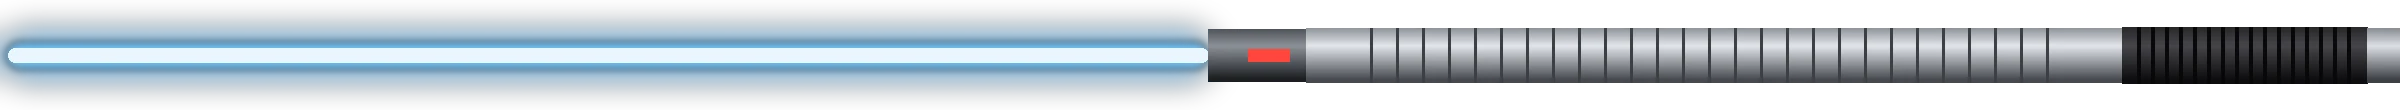
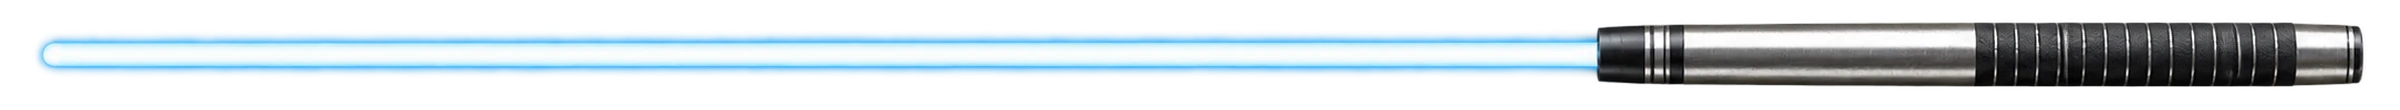
From GPT's PR #8: the light-blade cue (시크릿, its own strike) and the bowling ball (희귀); the potato told apart by plan A
Light blade and bowling ball with GPT's pictures and sound, at the owner's rarities (the blade's stat to the secret total). The potato (시크릿): on a carom table a peeled, a golden and a red potato (caromSkins: their own surfaces, colours until GPT's pictures come); on a pool table solids dyed, stripes in two rubber bands of their colour (stripes: 'bands'), numbers on big white stickers (sticker). The blade ends round in 3D and its glow has room in the power gauge, so neither is cut square.

Claude-Session: https://claude.ai/code/session_01DzxiQebW6t4iT9hZUZYbBt

diff --git a/web/scene/30-balls.js b/web/scene/30-balls.js
@@ -30,7 +30,7 @@
       if (stripe) { g.fillStyle = colOf(n); g.fillRect(0, H * 0.25, W, H * 0.5); }
       if (sk.noir && !stripe) { g.fillStyle = colOf(n); g.fillRect(0, H * 0.44, W, H * 0.12); }   // (a thin coloured belt round a solid)
       const rad = 0.5 / Math.PI * H;
-      for (const u of [0.25, 0.75]) {
+      for (const u of sk.numbers === false ? [] : [0.25, 0.75]) {
         g.fillStyle = sk.noir ? '#141416' : ivory; g.beginPath(); g.arc(u * W, H / 2, rad, 0, 7); g.fill();
         if (sk.noir) { g.strokeStyle = colOf(n); g.lineWidth = 6; g.stroke(); }
         g.fillStyle = sk.noir ? colOf(n) : '#111'; g.font = `bold ${n > 9 ? 84 : 104}px "Helvetica Neue",Arial,sans-serif`; g.textAlign = 'center'; g.textBaseline = 'middle';
@@ -50,22 +50,38 @@
        'label': the surface stays as it is, and the ball wears its colour as discs: a pool ball a disc of its colour with
                 the number on ivory (a stripe a ring of it), a carom ball two discs of its colour (the white none). */
   function skinTexture(g, W, H, sk, kind, n, hex, colOf) {
-    const im = typeof sk.skin === 'string' ? matOf(sk.skin) : null;
-    if (im) g.drawImage(im, 0, 0, W, H); else { g.fillStyle = typeof sk.skin === 'number' ? hex(sk.skin) : '#9a7048'; g.fillRect(0, 0, W, H); }
+    // caromSkins: the three carom balls each a surface of their own ({ pic, color }: a picture, the colour until it has come)
+    // - a peeled potato, a golden one, a red one - so they tell themselves apart with nothing laid on them
+    const own = kind === 'carom' && sk.caromSkins ? sk.caromSkins[Math.min(2, n)] : null;
+    const surf = own ? own.pic : sk.skin, im = typeof surf === 'string' ? matOf(surf) : null;
+    if (im) g.drawImage(im, 0, 0, W, H);
+    else { g.fillStyle = own ? hex(own.color) : typeof sk.skin === 'number' ? hex(sk.skin) : '#9a7048'; g.fillRect(0, 0, W, H); }
+    if (own) return;
     const col = kind === 'carom' ? (n === 0 ? null : n === 1 ? hex(sk.yel) : hex(sk.red)) : n === 0 ? null : colOf(n), stripe = kind === 'pool' && n > 8;
     const disc = (u, r, fill, ring) => { g.fillStyle = fill; g.beginPath(); g.arc(u * W, H / 2, r, 0, 7); g.fill(); if (ring) { g.lineWidth = r * 0.34; g.strokeStyle = ring; g.stroke(); } };
-    const number = u => { const r = 0.42 / Math.PI * H; disc(u, r, '#f4efe2'); g.fillStyle = '#111'; g.font = `bold ${n > 9 ? 74 : 92}px "Helvetica Neue",Arial,sans-serif`; g.textAlign = 'center'; g.textBaseline = 'middle'; g.fillText(String(n), u * W, H / 2 + 5); if (n === 6 || n === 9) g.fillRect(u * W - 19, H / 2 + 40, 38, 6); };
+    // the number on its sticker (sticker: how big, 1 the usual)
+    const number = u => { const k = sk.sticker || 1, r = 0.42 / Math.PI * H * k; disc(u, r, '#f7f3ea'); g.lineWidth = 3 * k; g.strokeStyle = 'rgba(0,0,0,.18)'; g.stroke();
+      g.fillStyle = '#111'; g.font = `bold ${Math.round((n > 9 ? 74 : 92) * k)}px "Helvetica Neue",Arial,sans-serif`; g.textAlign = 'center'; g.textBaseline = 'middle'; g.fillText(String(n), u * W, H / 2 + 5 * k);
+      if (n === 6 || n === 9) g.fillRect(u * W - 19 * k, H / 2 + 40 * k, 38 * k, 6 * k); };
+    const tint = (y0, h) => {
+      // the surface's light and dark kept, its colour the ball's (then a little of the colour laid over, so a dark ball is dark)
+      g.globalCompositeOperation = 'color'; g.fillStyle = col; g.fillRect(0, y0, W, h);
+      g.globalCompositeOperation = 'multiply'; g.globalAlpha = 0.55; g.fillRect(0, y0, W, h); g.globalAlpha = 1; g.globalCompositeOperation = 'source-over';
+    };
     if ((sk.mark || 'tint') === 'tint') {
       if (col) {
-        // the surface's light and dark kept, its colour the ball's (then a little of the colour laid over, so a dark ball is dark)
-        const y0 = stripe ? H * 0.25 : 0, h = stripe ? H * 0.5 : H;
-        g.globalCompositeOperation = 'color'; g.fillStyle = col; g.fillRect(0, y0, W, h);
-        g.globalCompositeOperation = 'multiply'; g.globalAlpha = 0.55; g.fillRect(0, y0, W, h); g.globalAlpha = 1; g.globalCompositeOperation = 'source-over';
+        // stripes: 'bands' - the surface as it is, two rubber bands of the colour round it; else a broad band dyed
+        if (stripe && sk.stripes === 'bands') for (const y of [0.37, 0.63]) {
+          const y0 = H * y - H * 0.04, gr = g.createLinearGradient(0, y0, 0, y0 + H * 0.08);
+          g.fillStyle = col; g.fillRect(0, y0, W, H * 0.08);
+          gr.addColorStop(0, 'rgba(0,0,0,.35)'); gr.addColorStop(0.35, 'rgba(255,255,255,.25)'); gr.addColorStop(1, 'rgba(0,0,0,.4)'); g.fillStyle = gr; g.fillRect(0, y0, W, H * 0.08);
+        }
+        else tint(stripe ? H * 0.25 : 0, stripe ? H * 0.5 : H);
       }
-      if (kind === 'pool' && n > 0) for (const u of [0.25, 0.75]) number(u);
+      if (kind === 'pool' && n > 0 && sk.numbers !== false) for (const u of [0.25, 0.75]) number(u);
     } else if (col) {
       if (kind === 'carom') for (const u of [0.25, 0.75]) disc(u, 0.3 / Math.PI * H, col);
-      else for (const u of [0.25, 0.75]) { disc(u, 0.62 / Math.PI * H, stripe ? '#f4efe2' : col, stripe ? col : null); number(u); }
+      else for (const u of [0.25, 0.75]) { disc(u, 0.62 / Math.PI * H, stripe ? '#f4efe2' : col, stripe ? col : null); if (sk.numbers !== false) number(u); }
     }
   }
   // finger holes (holes): dark inside, deepest at the middle, so the hollow the shape has (geomOf) reads as deep
@@ -152,9 +168,11 @@
   }
   function dressBall(m, k) { m.geometry = geomOf(k); finishOf(k, m.material); }
   const mats = {};
+  // every picture a set's balls are painted from (once all have come, the shelf's photographs are kept)
+  const picsOf = k => [k.mat, typeof k.skin === 'string' ? k.skin : null, ...(k.caromSkins || []).map(c => c.pic)].filter(Boolean);
   function matOf(m) {
     if (m in mats) return mats[m]; mats[m] = null; const u = TEXS['ball-' + m]; if (!u) return null;
-    const im = new Image(); im.onload = () => { mats[m] = im; if (skin && (skin.mat === m || skin.skin === m)) { const k = skin.id; skin = null; setBalls(k); } }; im.src = u; return null;
+    const im = new Image(); im.onload = () => { mats[m] = im; if (skin && picsOf(skin).includes(m)) { const k = skin.id; skin = null; setBalls(k); } }; im.src = u; return null;
   }
   /* A photograph of one ball of a set, for the shelf cards: the ball drawn by this renderer into a small target, lit by
      the same room (so it looks as it will on the table), its number turned to the camera; kept once made. */
@@ -171,7 +189,7 @@
       shotScene.add(shotBall); shotCam = new THREE.PerspectiveCamera(17, 1, 0.5, 20); shotCam.position.set(0, 0, 7); shotCam.lookAt(0, 0, 0);
     }
     const keep = skin; skin = k; const t = ballTexture(kind, n); skin = keep;
-    const done = (!k.mat || !!mats[k.mat]) && (typeof k.skin !== 'string' || !!mats[k.skin]);
+    const done = picsOf(k).every(m => !TEXS['ball-' + m] || !!mats[m]);
     dressBall(shotBall, k); shotBall.material.map = t; shotBall.material.color.setScalar(0.72); shotBall.material.needsUpdate = true;   // (no tone mapping off screen: a shade darker to match the table) shotBall.rotation.set(0.25, -0.18, 0);
     const prev = renderer.getRenderTarget(), cc = renderer.getClearColor(new THREE.Color()), ca = renderer.getClearAlpha();
     renderer.setRenderTarget(shotRT); renderer.setClearColor(0x000000, 0); unmask(); renderer.clear(); renderer.render(shotScene, shotCam);

diff --git a/web/content/20-cues.js b/web/content/20-cues.js
@@ -16,11 +16,39 @@ const CUES = [
     spec: [['무게', '18oz · 510g'], ['팁', '13mm 단일 가죽'], ['몸통', '통짜 메이플 원피스'], ['쓰임', '당구장 벽걸이 큐'], ['조인트', '없음']] },
   { id: 'sport', name: '스포츠 그립', rarity: 1, note: '흰 상대, 남색 하대에 노란 고무 그립', shaft: 0xf2f2ee, ferrule: 0xf2f2ee, tip: 0x2037c9, joint: 0xff5a3c, fore: 0x1a1f4d, points: null, wrap: 0xffd21f, sleeve: 0x1a1f4d, stat: { power: 6, spin: -4, guide: 2 },
     spec: [['무게', '19oz · 539g'], ['팁', '12.5mm 레이어드 가죽'], ['상대', '화이트 코팅 메이플'], ['하대', '네이비'], ['그립', '노란 고무']] },
-  // of its own make (profile, glow: top of this file): a metal hilt and a lit blade
-  { id: 'saber', name: '광선검', rarity: 5, note: '금속 손잡이에 푸르게 빛나는 날', stat: { power: 8, spin: 6, guide: 6 },
-    profile: [[0, 0.74, 0.006, 0.0062, 0xffffff], [0.74, 0.8, 0.0125, 0.0125, 0x2b2d31, { metal: 0.9, rough: 0.3 }], [0.8, 1.3, 0.0128, 0.0132, 0x9aa0a8, { metal: 1, rough: 0.25 }],
-      [1.3, 1.45, 0.0134, 0.0136, 0x1b1c1f, { rough: 0.8 }], [1.45, 1.47, 0.0136, 0.013, 0x9aa0a8, { metal: 1, rough: 0.2 }]],
-    glow: { from: 0.004, to: 0.74, color: 0x31a8ff, core: 0xeaf6ff, r: 0.0055 },
-    spec: [['무게', '19oz · 539g'], ['날', '빛나는 상대'], ['손잡이', '금속 원통, 고무 그립'], ['조인트', '없음']] },
+  // of its own make (profile, glow: top of this file): a metal hilt and a lit blade, its own strike (GPT, PR #8)
+  { id: 'saber', name: '광선검', rarity: 5, note: '은빛 손잡이와 푸른 광선, 짧은 전자 타격음', stat: { power: 8, spin: 6, guide: 6 },
+    profile: [
+      [0, 1, 0.0057, 0.006, 0xeaf8ff, { rough: 0.2 }],
+      [1, 1.025, 0.018, 0.018, 0x292e35, { rough: 0.3, metal: 0.9 }],
+      [1.025, 1.032, 0.0188, 0.0188, 0xb9c1ca, { rough: 0.22, metal: 1 }],
+      [1.032, 1.048, 0.018, 0.018, 0x252a30, { rough: 0.35, metal: 0.85 }],
+      [1.048, 1.055, 0.0188, 0.0188, 0xb9c1ca, { rough: 0.22, metal: 1 }],
+      [1.055, 1.235, 0.018, 0.018, 0xaab2bc, { rough: 0.3, metal: 1 }],
+      [1.235, 1.245, 0.0184, 0.0184, 0x30343a, { rough: 0.3, metal: 0.8 }],
+      [1.245, 1.26, 0.0173, 0.0173, 0x202328, { rough: 0.82, metal: 0 }],
+      [1.26, 1.263, 0.018, 0.018, 0x717983, { rough: 0.36, metal: 0.9 }],
+      [1.263, 1.278, 0.0173, 0.0173, 0x202328, { rough: 0.82, metal: 0 }],
+      [1.278, 1.281, 0.018, 0.018, 0x717983, { rough: 0.36, metal: 0.9 }],
+      [1.281, 1.296, 0.0173, 0.0173, 0x202328, { rough: 0.82, metal: 0 }],
+      [1.296, 1.299, 0.018, 0.018, 0x717983, { rough: 0.36, metal: 0.9 }],
+      [1.299, 1.314, 0.0173, 0.0173, 0x202328, { rough: 0.82, metal: 0 }],
+      [1.314, 1.317, 0.018, 0.018, 0x717983, { rough: 0.36, metal: 0.9 }],
+      [1.317, 1.332, 0.0173, 0.0173, 0x202328, { rough: 0.82, metal: 0 }],
+      [1.332, 1.335, 0.018, 0.018, 0x717983, { rough: 0.36, metal: 0.9 }],
+      [1.335, 1.35, 0.0173, 0.0173, 0x202328, { rough: 0.82, metal: 0 }],
+      [1.35, 1.353, 0.018, 0.018, 0x717983, { rough: 0.36, metal: 0.9 }],
+      [1.353, 1.368, 0.0173, 0.0173, 0x202328, { rough: 0.82, metal: 0 }],
+      [1.368, 1.371, 0.018, 0.018, 0x717983, { rough: 0.36, metal: 0.9 }],
+      [1.371, 1.386, 0.0173, 0.0173, 0x202328, { rough: 0.82, metal: 0 }],
+      [1.386, 1.389, 0.018, 0.018, 0x717983, { rough: 0.36, metal: 0.9 }],
+      [1.389, 1.404, 0.0173, 0.0173, 0x202328, { rough: 0.82, metal: 0 }],
+      [1.404, 1.407, 0.018, 0.018, 0x717983, { rough: 0.36, metal: 0.9 }],
+      [1.407, 1.422, 0.0173, 0.0173, 0x202328, { rough: 0.82, metal: 0 }],
+      [1.422, 1.425, 0.018, 0.018, 0x717983, { rough: 0.36, metal: 0.9 }],
+      [1.425, 1.44, 0.0175, 0.0175, 0x25282d, { rough: 0.8 }],
+      [1.44, 1.47, 0.019, 0.0184, 0xb1bac3, { rough: 0.26, metal: 1 }]
+    ], glow: { from: 0.004, to: 1, color: 0x38bfff, core: 0xf2fcff, r: 0.006 }, sound: { file: 'saber-strike' },
+    spec: [['길이', '147cm'], ['날', '푸른 광선 · 밝은 중심부'], ['손잡이', '브러시드 실버 · 건메탈'], ['그립', '차콜 링 그립'], ['타격음', '짧은 전자 스윕']] },
 ];
 if (typeof module !== 'undefined') module.exports = { CUES };

diff --git a/web/content/30-balls.js b/web/content/30-balls.js
@@ -15,9 +15,16 @@ const BALLSKINS = [
   { id: 'classic', name: '클래식', rarity: 0, note: '중계에서 보는 공: 흰 공과 노란 공에 빨간 점', pal: null, cue: 0xf4efe2, yel: 0xf4c20d, red: 0xd3241c, dots: true },
   { id: 'plain', name: '매끈한 공', rarity: 0, note: '점 없는 흰 공, 맑은 색', pal: null, cue: 0xf7f3ea, yel: 0xf6c514, red: 0xd8261e, dots: false },
   // made otherwise (shape, holes, skin, mark, finish: top of this file): a bowling ball with its finger holes, and a lumpy potato
-  { id: 'bowling', name: '볼링공', rarity: 1, note: '마블 무늬에 손가락 구멍 셋', pal: null, cue: 0xf4efe2, yel: 0xf2c21a, red: 0xd3241c, dots: false,
-    mat: 'marble', holes: [[52, 80, 0.15, 0.3], [52, 100, 0.15, 0.3], [30, 90, 0.17, 0.32]], finish: { rough: 0.15, coat: 1 } },
-  { id: 'potato', name: '알감자', rarity: 5, note: '울퉁불퉁 갓 캔 알감자', pal: null, cue: 0xe9dcc0, yel: 0xf2c21a, red: 0xd3241c, dots: false,
-    skin: 0x9a6b3c, mark: 'label', shape: { lumps: 0.09, squash: [1, 0.86, 0.94], n: 14, eyes: 7, seed: 5 }, finish: { rough: 0.85, coat: 0 } },
+  { id: 'bowling', name: '볼링공', rarity: 1, note: '마블 수지와 손가락 구멍 셋, 색과 띠로 공 구분', pal: null,
+    cue: 0xf4f1e8, yel: 0xf2c21a, red: 0xdb2827, dots: false, skin: 'bowling', mark: 'tint', numbers: false,
+    holes: [[48, 68, 0.135, 0.34], [48, 112, 0.135, 0.34], [24, 90, 0.165, 0.38]], finish: { rough: 0.18, coat: 1 },
+    sound: { rate: 0.76, tone: 0.82, gain: 1.05 } },
+  // the potato tells its balls apart as potatoes do: on a carom table a peeled one, a golden one and a red one; on a pool
+  // table a solid is dyed its colour, a stripe wears two rubber bands of it, and every number is on a big white sticker
+  { id: 'potato', name: '알감자', rarity: 5, note: '울퉁불퉁 알감자: 깐 감자·황금 감자·홍감자, 물들이고 고무줄 감고', pal: null,
+    cue: 0xf0e8d5, yel: 0xf4ca1c, red: 0xe42f27, dots: false, skin: 'potato', mark: 'tint', stripes: 'bands', sticker: 1.3,
+    caromSkins: [{ pic: 'potato-white', color: 0xeee2c4 }, { pic: 'potato-gold', color: 0xe5b52a }, { pic: 'potato-red', color: 0xa33a2c }],
+    shape: { lumps: 0.105, squash: [1, 0.9, 0.96], n: 13, eyes: 8, seed: 37 }, finish: { rough: 0.92, coat: 0 },
+    sound: { rate: 0.9, tone: 0.65, gain: 0.72 } },
 ];
 if (typeof module !== 'undefined') module.exports = { BALL_HEX, ballHex, ballCss, BALLSKINS };

diff --git a/web/app/00-state.js b/web/app/00-state.js
@@ -117,7 +117,8 @@ function drawCue(cv, d, vertical) {
   cv.width = Math.round(cw * dpr); cv.height = Math.round(ch * dpr);
   const g = cv.getContext('2d'), L = vertical ? cv.height : cv.width, T = vertical ? cv.width : cv.height;
   if (vertical) g.setTransform(0, 1, 1, 0, 0, 0);                                    // swap the axes: x runs down the cue
-  const LEN = 1.47, x = m => m / LEN * L, rad = m => (0.006 + (0.0146 - 0.006) * Math.min(1, m / 1.45)) / 0.0146 * T / 2;
+  // (a lit blade's glow needs room past its tip, or the picture's edge cuts it square)
+  const LEN = 1.47, pad = d.glow ? T * 0.9 : 0, x = m => pad + m / LEN * (L - pad), rad = m => (0.006 + (0.0146 - 0.006) * Math.min(1, m / 1.45)) / 0.0146 * T / 2;
   const css = n => '#' + n.toString(16).padStart(6, '0');
   const seg = (m0, m1, fill) => { g.fillStyle = fill; g.beginPath(); g.moveTo(x(m0), T / 2 - rad(m0)); g.lineTo(x(m1), T / 2 - rad(m1)); g.lineTo(x(m1), T / 2 + rad(m1)); g.lineTo(x(m0), T / 2 + rad(m0)); g.fill(); };
   // (a cue with its own make: its sections, and a lit blade - a white core in a glow of its colour - over them)
@@ -126,8 +127,9 @@ function drawCue(cv, d, vertical) {
     for (const [x0, x1, r0, r1, h] of d.profile) { g.fillStyle = css(h); g.beginPath(); g.moveTo(x(x0), T / 2 - rr(r0)); g.lineTo(x(x1), T / 2 - rr(r1)); g.lineTo(x(x1), T / 2 + rr(r1)); g.lineTo(x(x0), T / 2 + rr(r0)); g.fill(); }
     if (d.glow) {
       const G = d.glow, r = rr(G.r || 0.0062);
-      g.save(); g.shadowColor = css(G.color); g.shadowBlur = r * 5; g.fillStyle = css(G.color); g.fillRect(x(G.from), T / 2 - r * 1.6, x(G.to) - x(G.from), r * 3.2);
-      g.shadowBlur = r * 2; g.fillStyle = css(G.core != null ? G.core : 0xffffff); g.fillRect(x(G.from), T / 2 - r, x(G.to) - x(G.from), r * 2); g.restore();
+      // round-ended bars: the coloured glow, then the white-hot core
+      const bar = (h, fill, blur) => { g.shadowBlur = blur; g.fillStyle = fill; g.beginPath(); g.moveTo(x(G.to), T / 2 - h); g.lineTo(x(G.from), T / 2 - h); g.arc(x(G.from), T / 2, h, -Math.PI / 2, Math.PI / 2, true); g.lineTo(x(G.to), T / 2 + h); g.fill(); };
+      g.save(); g.shadowColor = css(G.color); bar(r * 1.6, css(G.color), r * 5); bar(r, css(G.core != null ? G.core : 0xffffff), r * 2); g.restore();
       return;
     }
   } else {

diff --git a/web/tools/check.js b/web/tools/check.js
@@ -65,11 +65,16 @@ for (const dir of ['ai', 'app', 'reel', 'scene']) {
   // a ball set's own make (content/30-balls.js): its shape, holes, surface picture, mark and finish
   for (const k of C.BALLSKINS || []) {
     const at = `content BALLSKINS '${k.id}'`;
+    if (k.numbers != null && typeof k.numbers !== 'boolean') fail(`${at}: numbers must be true or false`);
     if (k.shape && (!num(k.shape.lumps || 0, 0, 0.15) || (k.shape.squash && !(k.shape.squash.length === 3 && k.shape.squash.every(v => num(v, 0.7, 1)))))) fail(`${at}: shape.lumps 0..0.15, shape.squash three numbers 0.7..1`);
     for (const h of k.holes || []) if (!Array.isArray(h) || !num(h[0], -90, 90) || !num(h[1], 0, 360) || !num(h[2], 0.03, 0.4) || !num(h[3] == null ? 0.3 : h[3], 0.05, 0.6)) fail(`${at}: a hole is [latitude, longitude (degrees), radius, depth (of the ball's radius)]`);
     if (typeof k.skin === 'string' && !has(`tex/ball-${k.skin}.webp`)) fail(`${at}: its surface tex/ball-${k.skin}.webp is missing`);
     if (k.skin != null && typeof k.skin !== 'string' && !num(k.skin, 0, 0xffffff)) fail(`${at}: skin is a picture's name or a colour`);
     if (k.mark && !['tint', 'label'].includes(k.mark)) fail(`${at}: mark is 'tint' or 'label'`);
+    if (k.stripes && k.stripes !== 'bands') fail(`${at}: stripes is 'bands' or left out`);
+    if (k.sticker != null && !num(k.sticker, 0.5, 1.6)) fail(`${at}: sticker 0.5..1.6`);
+    // (the three carom surfaces: each a colour, and a picture used once it is in tex/)
+    if (k.caromSkins && !(k.caromSkins.length === 3 && k.caromSkins.every(c => c && num(c.color, 0, 0xffffff) && (c.pic == null || typeof c.pic === 'string')))) fail(`${at}: caromSkins is three { pic?, color }`);
     const f = k.finish; if (f && ((f.rough != null && !num(f.rough, 0, 1)) || (f.coat != null && !num(f.coat, 0, 1)) || (f.metal != null && !num(f.metal, 0, 1)))) fail(`${at}: finish rough, coat, metal are 0..1`);
     if (f && f.bump && !has(`tex/ball-${f.bump}.webp`)) fail(`${at}: its bump picture tex/ball-${f.bump}.webp is missing`);
   }

diff --git a/web/scene/40-cue.js b/web/scene/40-cue.js
@@ -16,10 +16,12 @@
       for (const [x0, x1, r0, r1, h, o] of d.profile) { const q = o || {}; part(x0, x1, r0, r1, std(h, q.rough != null ? q.rough : 0.4, q.metal || 0)); }
       if (d.glow) {
         const G = d.glow, core = new THREE.MeshBasicMaterial({ color: col(G.core != null ? G.core : 0xffffff), toneMapped: false });
-        part(G.from, G.to, G.r || 0.0062, G.r || 0.0062, core);
+        // (each layer ends round at the tip, not cut square: a cap of its own radius)
+        const r = G.r || 0.0062, cap = (rad, mat) => { const m = new THREE.Mesh(new THREE.SphereGeometry(rad, 16, 10), mat); m.position.set(G.from, 0, 0); cue.add(m); return m; };
+        part(G.from, G.to, r, r, core); cap(r, core);
         for (const [k, op] of [[1.7, 0.55], [3.2, 0.2]]) {
           const m = new THREE.MeshBasicMaterial({ color: col(G.color), transparent: true, opacity: op, blending: THREE.AdditiveBlending, depthWrite: false, toneMapped: false });
-          part(G.from - 0.004, G.to + 0.004, (G.r || 0.0062) * k, (G.r || 0.0062) * k, m); cue.children[cue.children.length - 1].renderOrder = 3;
+          part(G.from, G.to + 0.004, r * k, r * k, m); cue.children[cue.children.length - 1].renderOrder = 3; cap(r * k, m).renderOrder = 3;
         }
       }
       dirty = 3; return;
